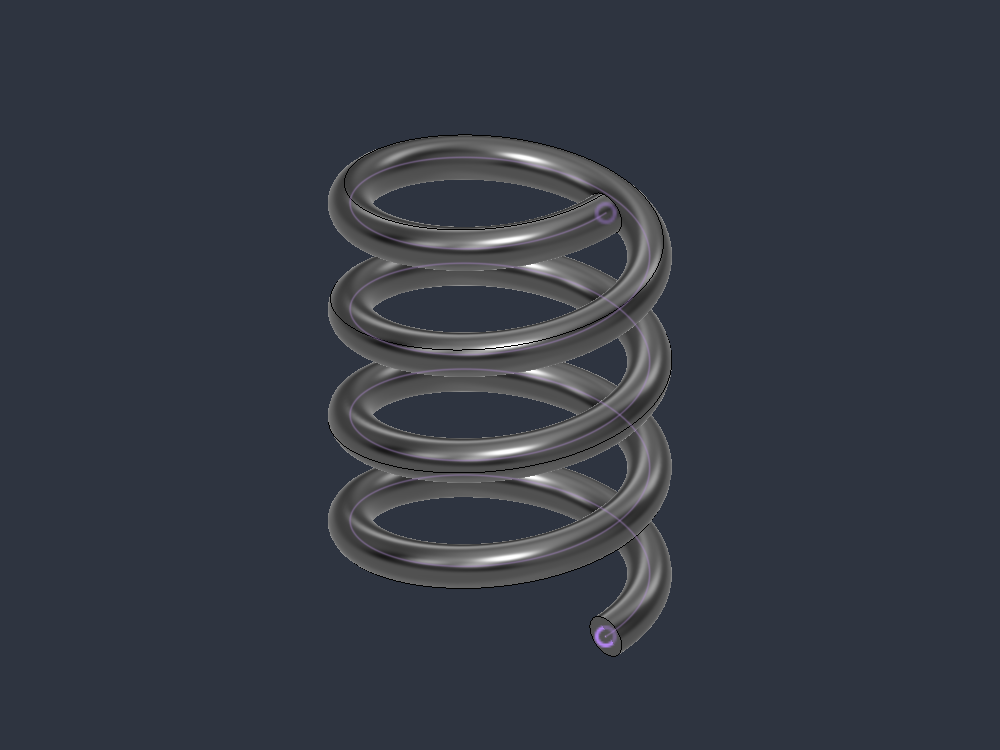
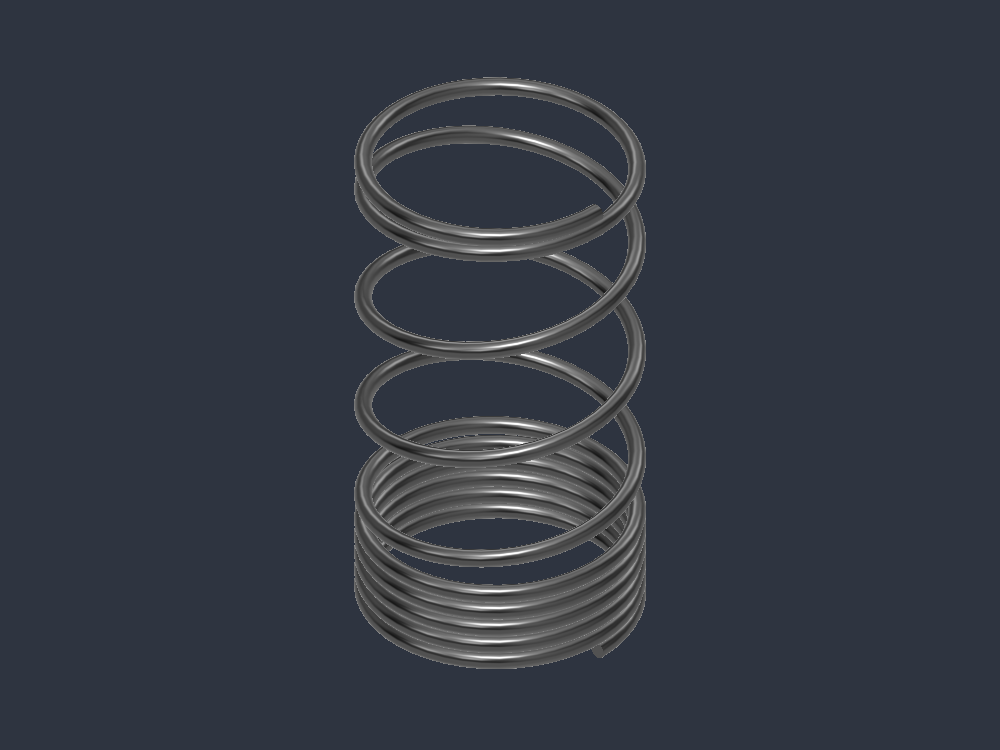
A spring you can see the variable pitch in
The picture under "It is a real curve" was a constant pitch coil, which
proves the sweep works and nothing else. On the page it sits under, where
the whole point is a pitch that changes along the length, it quietly said
the opposite.

The new one is a progressive spring built from the station table: five
dead coils at 4.5 mm carrying three working coils at 29 mm, with closed
flat ends at the 4 mm wire diameter. Same size and background as the
other pictures. The caption now says what it is.

Changed region(s): [[0.31, 0.092, 0.682, 0.8893]]

diff --git a/README.md b/README.md
@@ -93,7 +93,9 @@ Two stations at the same pitch give you an exactly constant run in between, with
 
 Nothing above is a picture of a coil. Sweep a section along one and you get a body like any other:
 
-![A spring swept along one of the helix curves](docs/images/swept-spring.png)
+![A progressive spring swept along a variable pitch helix](docs/images/swept-spring.png)
+
+That one is a progressive spring off the station table: five dead coils at 4.5 mm carrying three working coils at 29 mm, with closed flat ends at the 4 mm wire diameter.
 
 ## Installation
 
